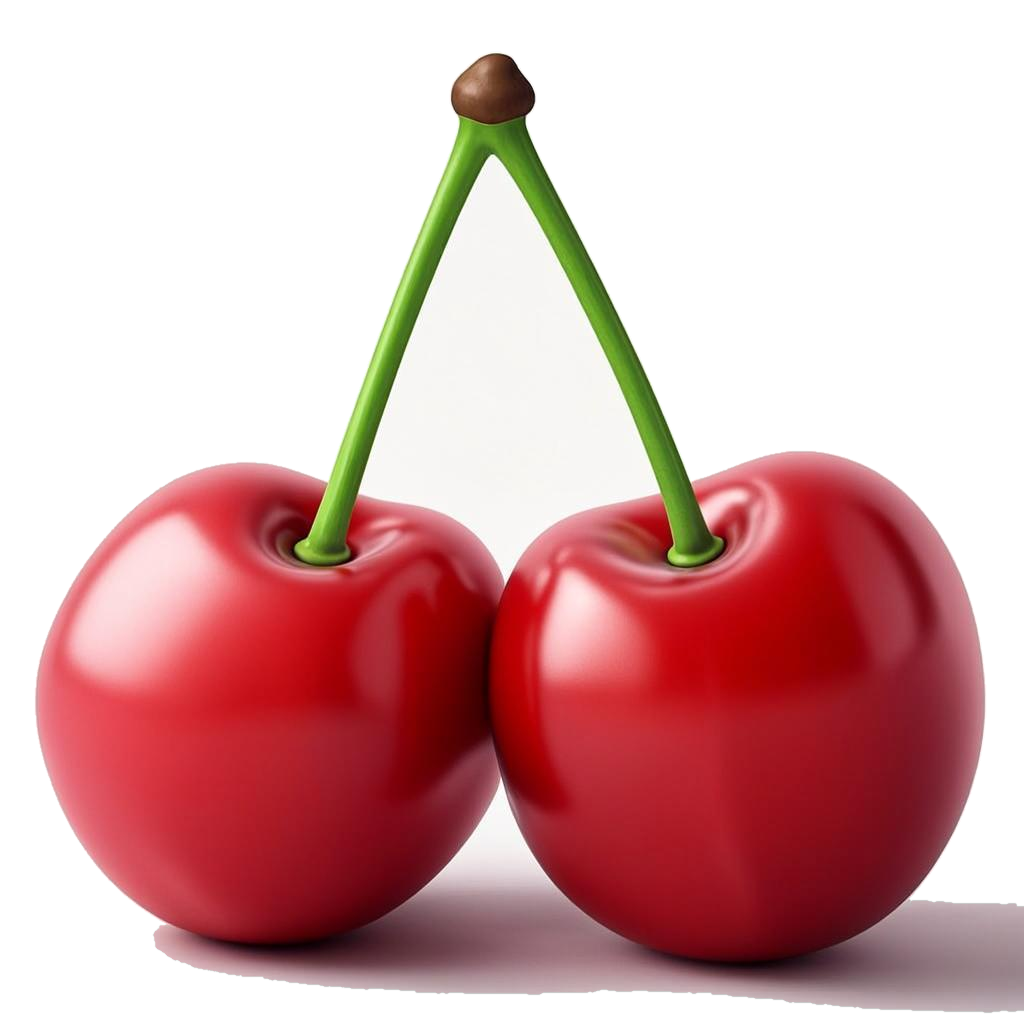
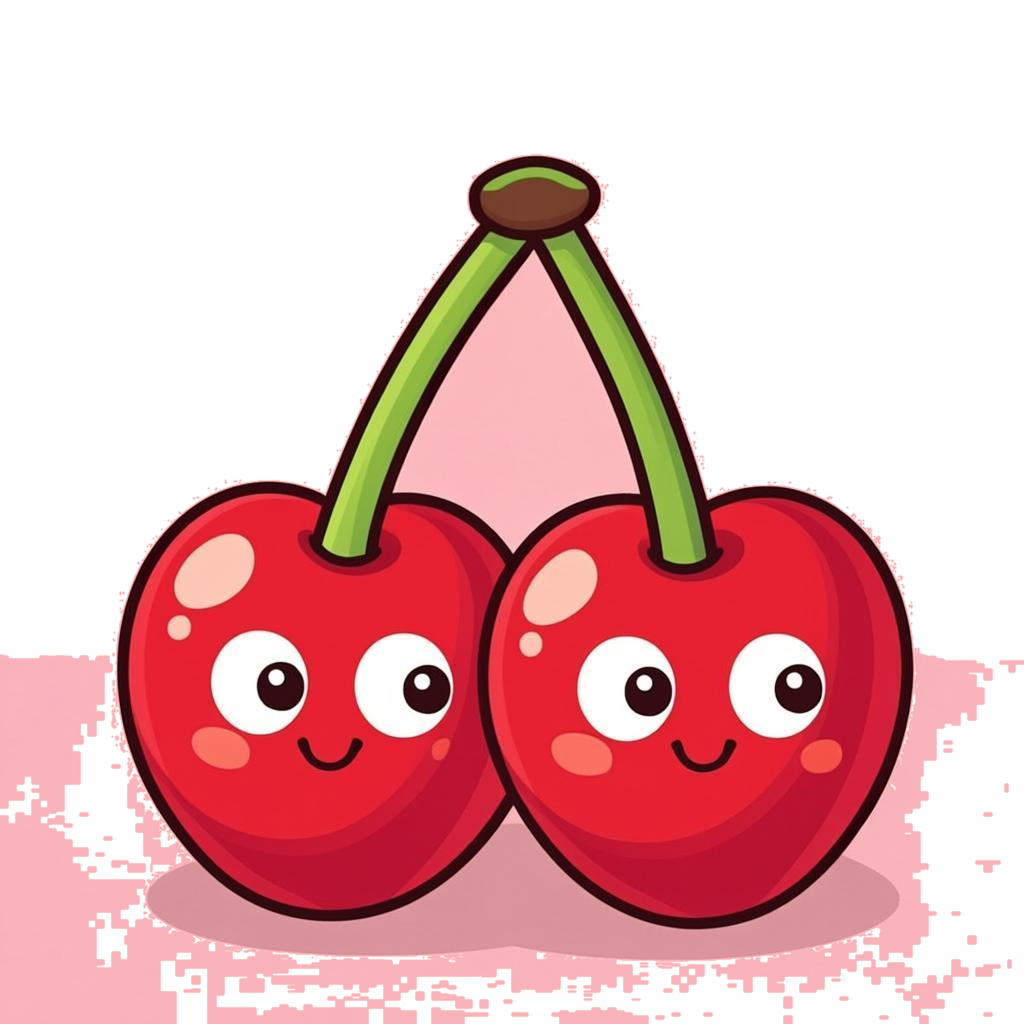
c8cf7a72-adce-4ab9-92f0-50984b158156

diff --git a/public/game.html b/public/game.html
@@ -1258,8 +1258,14 @@ function loadThemeList(){
       sel.innerHTML=THEME_LIST.map(t=>'<option value="'+t.id+'">'+t.name+'</option>').join('');
       sel.value=Save.data.settings.activeTheme||'default';}
   }).catch(()=>{});}
+// Special candy assets (striped, bomb, rainbow) loaded from theme folder
+let EXT_SPECIALS={h:null,v:null,b:null,r:null};
+function getSpecialPath(name){
+  const theme=Save.data.settings.activeTheme||'default';
+  return 'themes/'+theme+'/'+name+'.png';}
 function tryLoadExtAssets(){
-  let pending=FRUITS.length;
+  let pending=FRUITS.length+3; // 8 fruits + 3 special candies
+  const done=()=>{if(--pending===0)refreshAllSprites();};
   for(let i=0;i<FRUITS.length;i++){
     const img=new Image();
     img.onload=()=>{
@@ -1267,10 +1273,21 @@ function tryLoadExtAssets(){
       const c=cn.getContext('2d');
       const s=Math.min(128/img.width,128/img.height);
       c.drawImage(img,(128-img.width*s)/2,(128-img.height*s)/2,img.width*s,img.height*s);
-      EXT_FRUITS[i]=cn;
-      if(--pending===0)refreshAllSprites();};
-    img.onerror=()=>{if(--pending===0)refreshAllSprites();};
-    img.src=getThemePath(i);}}
+      EXT_FRUITS[i]=cn;done();};
+    img.onerror=done;
+    img.src=getThemePath(i);}
+  // Load special candies: sp_h (striped horizontal), sp_b (bomb), sp_r (rainbow)
+  const spNames=[['h','sp_h'],['b','sp_b'],['r','sp_r']];
+  spNames.forEach(([key,file])=>{
+    const img=new Image();
+    img.onload=()=>{
+      const cn=document.createElement('canvas');cn.width=cn.height=128;
+      const c=cn.getContext('2d');
+      const s=Math.min(128/img.width,128/img.height);
+      c.drawImage(img,(128-img.width*s)/2,(128-img.height*s)/2,img.width*s,img.height*s);
+      EXT_SPECIALS[key]=cn;done();};
+    img.onerror=done;
+    img.src=getSpecialPath(file);});}
 function drawStripes(c,dir){
   c.save();c.globalAlpha=.94;
   for(let i=-1;i<=1;i++){
@@ -1338,13 +1355,15 @@ function buildMasterSprites(){
   MASTER_SPR=FRUITS.map((f,i)=>{
     const base=fruitBase(i);
     const withOv=ov=>{const cn=master128(cc=>{cc.drawImage(base,0,0);ov(cc);});return cn;};
-    return{n:base,h:withOv(c=>drawStripes(c,'h')),v:withOv(c=>drawStripes(c,'v')),
-      b:withOv(c=>{c.clearRect(0,0,128,128);drawWrapper(c);c.save();c.translate(64,64);c.scale(.84,.84);c.translate(-64,-64);
+    return{n:base,
+      h:EXT_SPECIALS.h||withOv(c=>drawStripes(c,'h')),
+      v:EXT_SPECIALS.h||withOv(c=>drawStripes(c,'v')),
+      b:EXT_SPECIALS.b||withOv(c=>{c.clearRect(0,0,128,128);drawWrapper(c);c.save();c.translate(64,64);c.scale(.84,.84);c.translate(-64,-64);
         if(EXT_FRUITS[i])c.drawImage(EXT_FRUITS[i],0,0);else f.draw(c);c.restore();})};});
   // Cache 128x128 versions of stone/lock/rainbow/bonus too
   MASTER_SPR._stone=[master128(c=>drawStoneTile(c,2)),master128(c=>drawStoneTile(c,1))];
   MASTER_SPR._lock=[master128(c=>drawLockTile(c,1)),master128(c=>drawLockTile(c,2))];
-  MASTER_SPR._rainbow=master128(drawRainbowCandy);
+  MASTER_SPR._rainbow=EXT_SPECIALS.r||master128(drawRainbowCandy);
   MASTER_SPR._bonus=master128(drawClockBadge);}
 function master128(fn){const m=document.createElement('canvas');m.width=m.height=128;fn(m.getContext('2d'));return m;}
 function fruitBase(i){return EXT_FRUITS[i]||master128(FRUITS[i].draw);}
@@ -3676,8 +3695,10 @@ function wireUI(){
   $('#themeSel').addEventListener('change',e=>{
     Sfx.click();
     Save.data.settings.activeTheme=e.target.value;Save.write();
-    // Reload fruit assets from new theme
-    for(let i=0;i<6;i++)EXT_FRUITS[i]=null;
+    // Reload fruit + special assets from new theme
+    for(let i=0;i<FRUITS.length;i++)EXT_FRUITS[i]=null;
+    EXT_SPECIALS={h:null,v:null,b:null,r:null};
+    MASTER_SPR=null; // invalidate cache
     tryLoadExtAssets();
     toast(t('themeChanged'),2000);
   });

diff --git a/public/themes/README.md b/public/themes/README.md
@@ -8,7 +8,7 @@ Bu klasör meyve asset'lerini yönetir. Kendi asset'lerinizi kolayca ekleyebilir
 public/themes/
 ├── config.json          ← Aktif tema + tema listesi
 ├── README.md            ← Bu dosya
-├── default/             ← Varsayılan tema (Sweet Bonanza candy stili, 8 meyve)
+├── default/             ← Varsayılan tema (Sweet Bonanza cartoon stili, 8 meyve + 3 özel şeker)
 │   ├── fr0.png (Kiraz 🍒)
 │   ├── fr1.png (Limon dilim 🍋)
 │   ├── fr2.png (Yabanmürver 🫐)
@@ -16,11 +16,14 @@ public/themes/
 │   ├── fr4.png (Üzüm 🍇)
 │   ├── fr5.png (Portakal dilim 🍊)
 │   ├── fr6.png (Karpuz dilim 🍉)
-│   └── fr7.png (Muz 🍌)
-├── realistic/           ← Gerçekçi stil (alternatif, 6 meyve)
+│   ├── fr7.png (Muz 🍌)
+│   ├── sp_h.png (Çizgili şeker — 4'lü eşleşme)
+│   ├── sp_b.png (Bomb şeker — L/T/Kare eşleşme)
+│   └── sp_r.png (Gökkuşağı lolipop — 5'li eşleşme)
+├── realistic/           ← Gerçekçi stil (alternatif, 6 meyve, özel şeker yok)
 │   └── fr0-5.png
 └── halloween/           ← Cadılar Bayramı etkinlik teması (örnek - boş)
-    └── fr0-7.png        ← Kendi etkinlik asset'lerinizi koyun
+    └── fr0-7.png + sp_h/b/r.png  ← Kendi etkinlik asset'lerinizi koyun
 ```
 
 ## 🎨 Yeni Tema Ekleme
@@ -69,4 +72,11 @@ public/themes/
 | fr6.png | Karpuz (dilim) | Pembe-Kırmızı |
 | fr7.png | Muz | Altın Sarı |
 
-Asset bulunamazsa oyun otomatik olarak prosedürel (çizim) meyvelere düşer.
+### Özel Şekerler (Opsiyonel)
+| Dosya | Şeker | Ne zaman oluşur |
+|-------|-------|------------------|
+| sp_h.png | Çizgili şeker (pembe-beyaz) | 4'lü eşleşme |
+| sp_b.png | Bomb şeker (mor, sprinkles) | L/T/Kare eşleşme |
+| sp_r.png | Gökkuşağı lolipop | 5'li eşleşme |
+
+Asset bulunamazsa oyun otomatik olarak prosedürel (çizim) meyvelere/şekerlere düşer.
